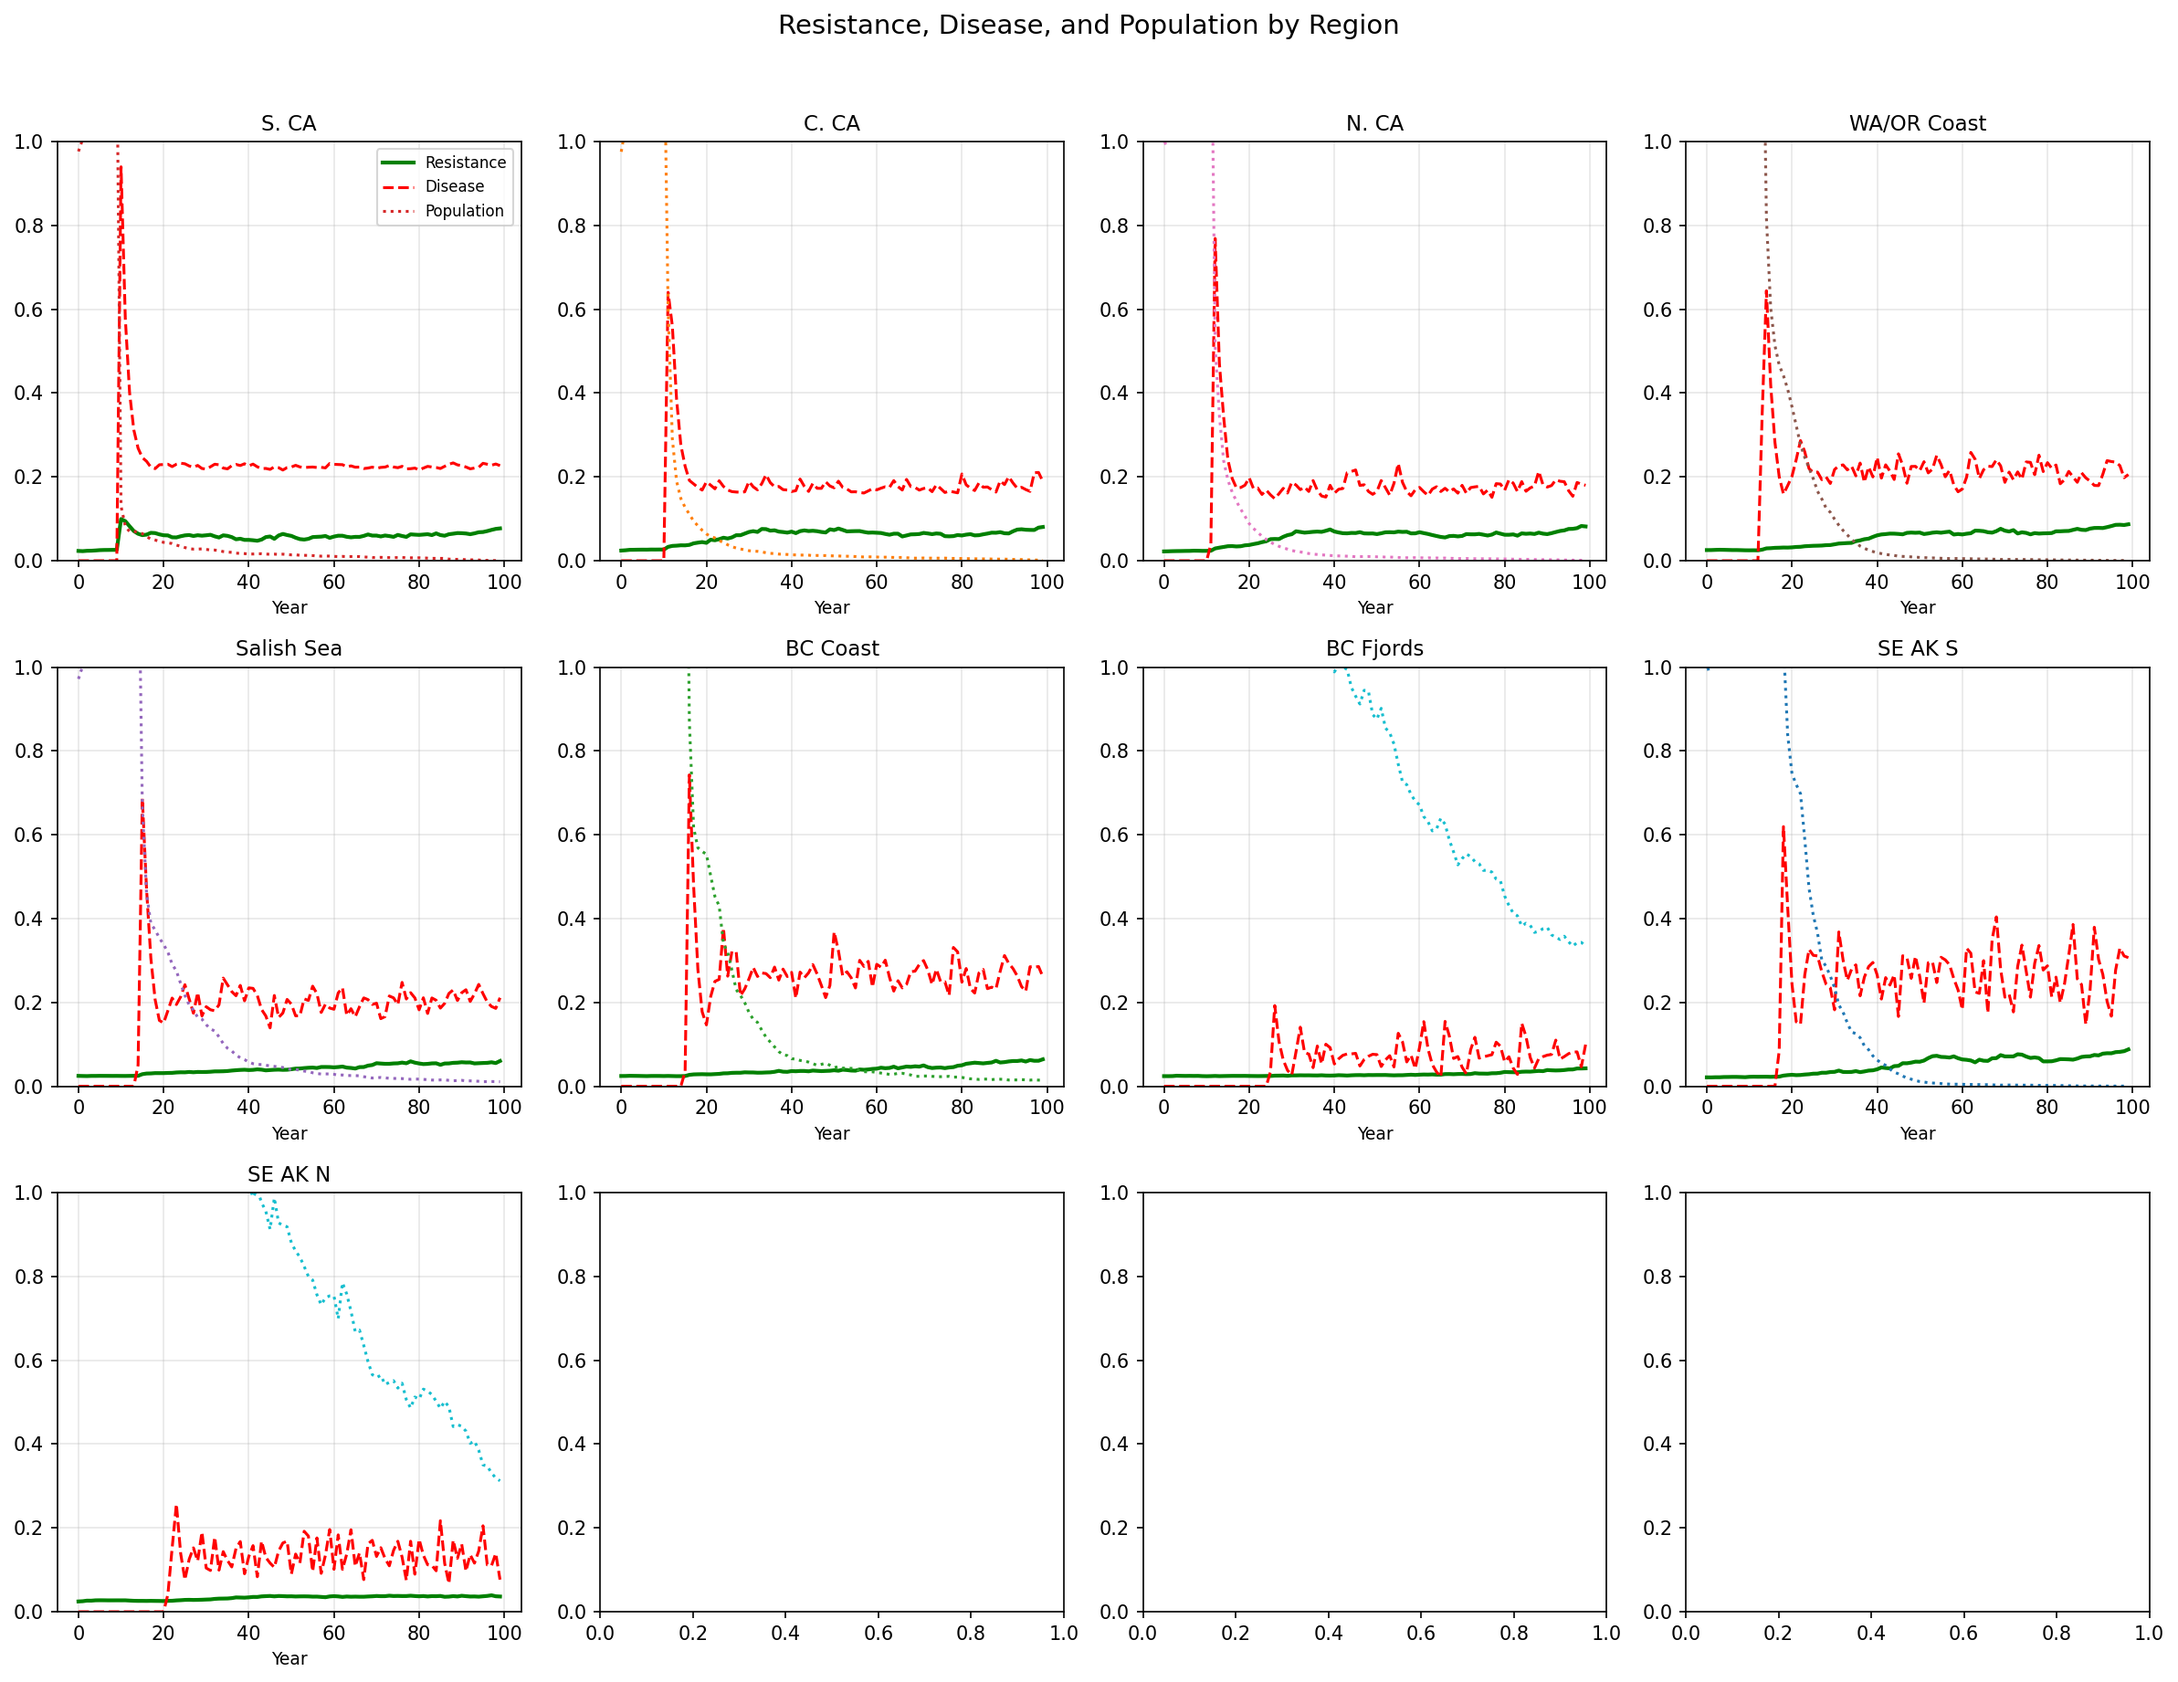
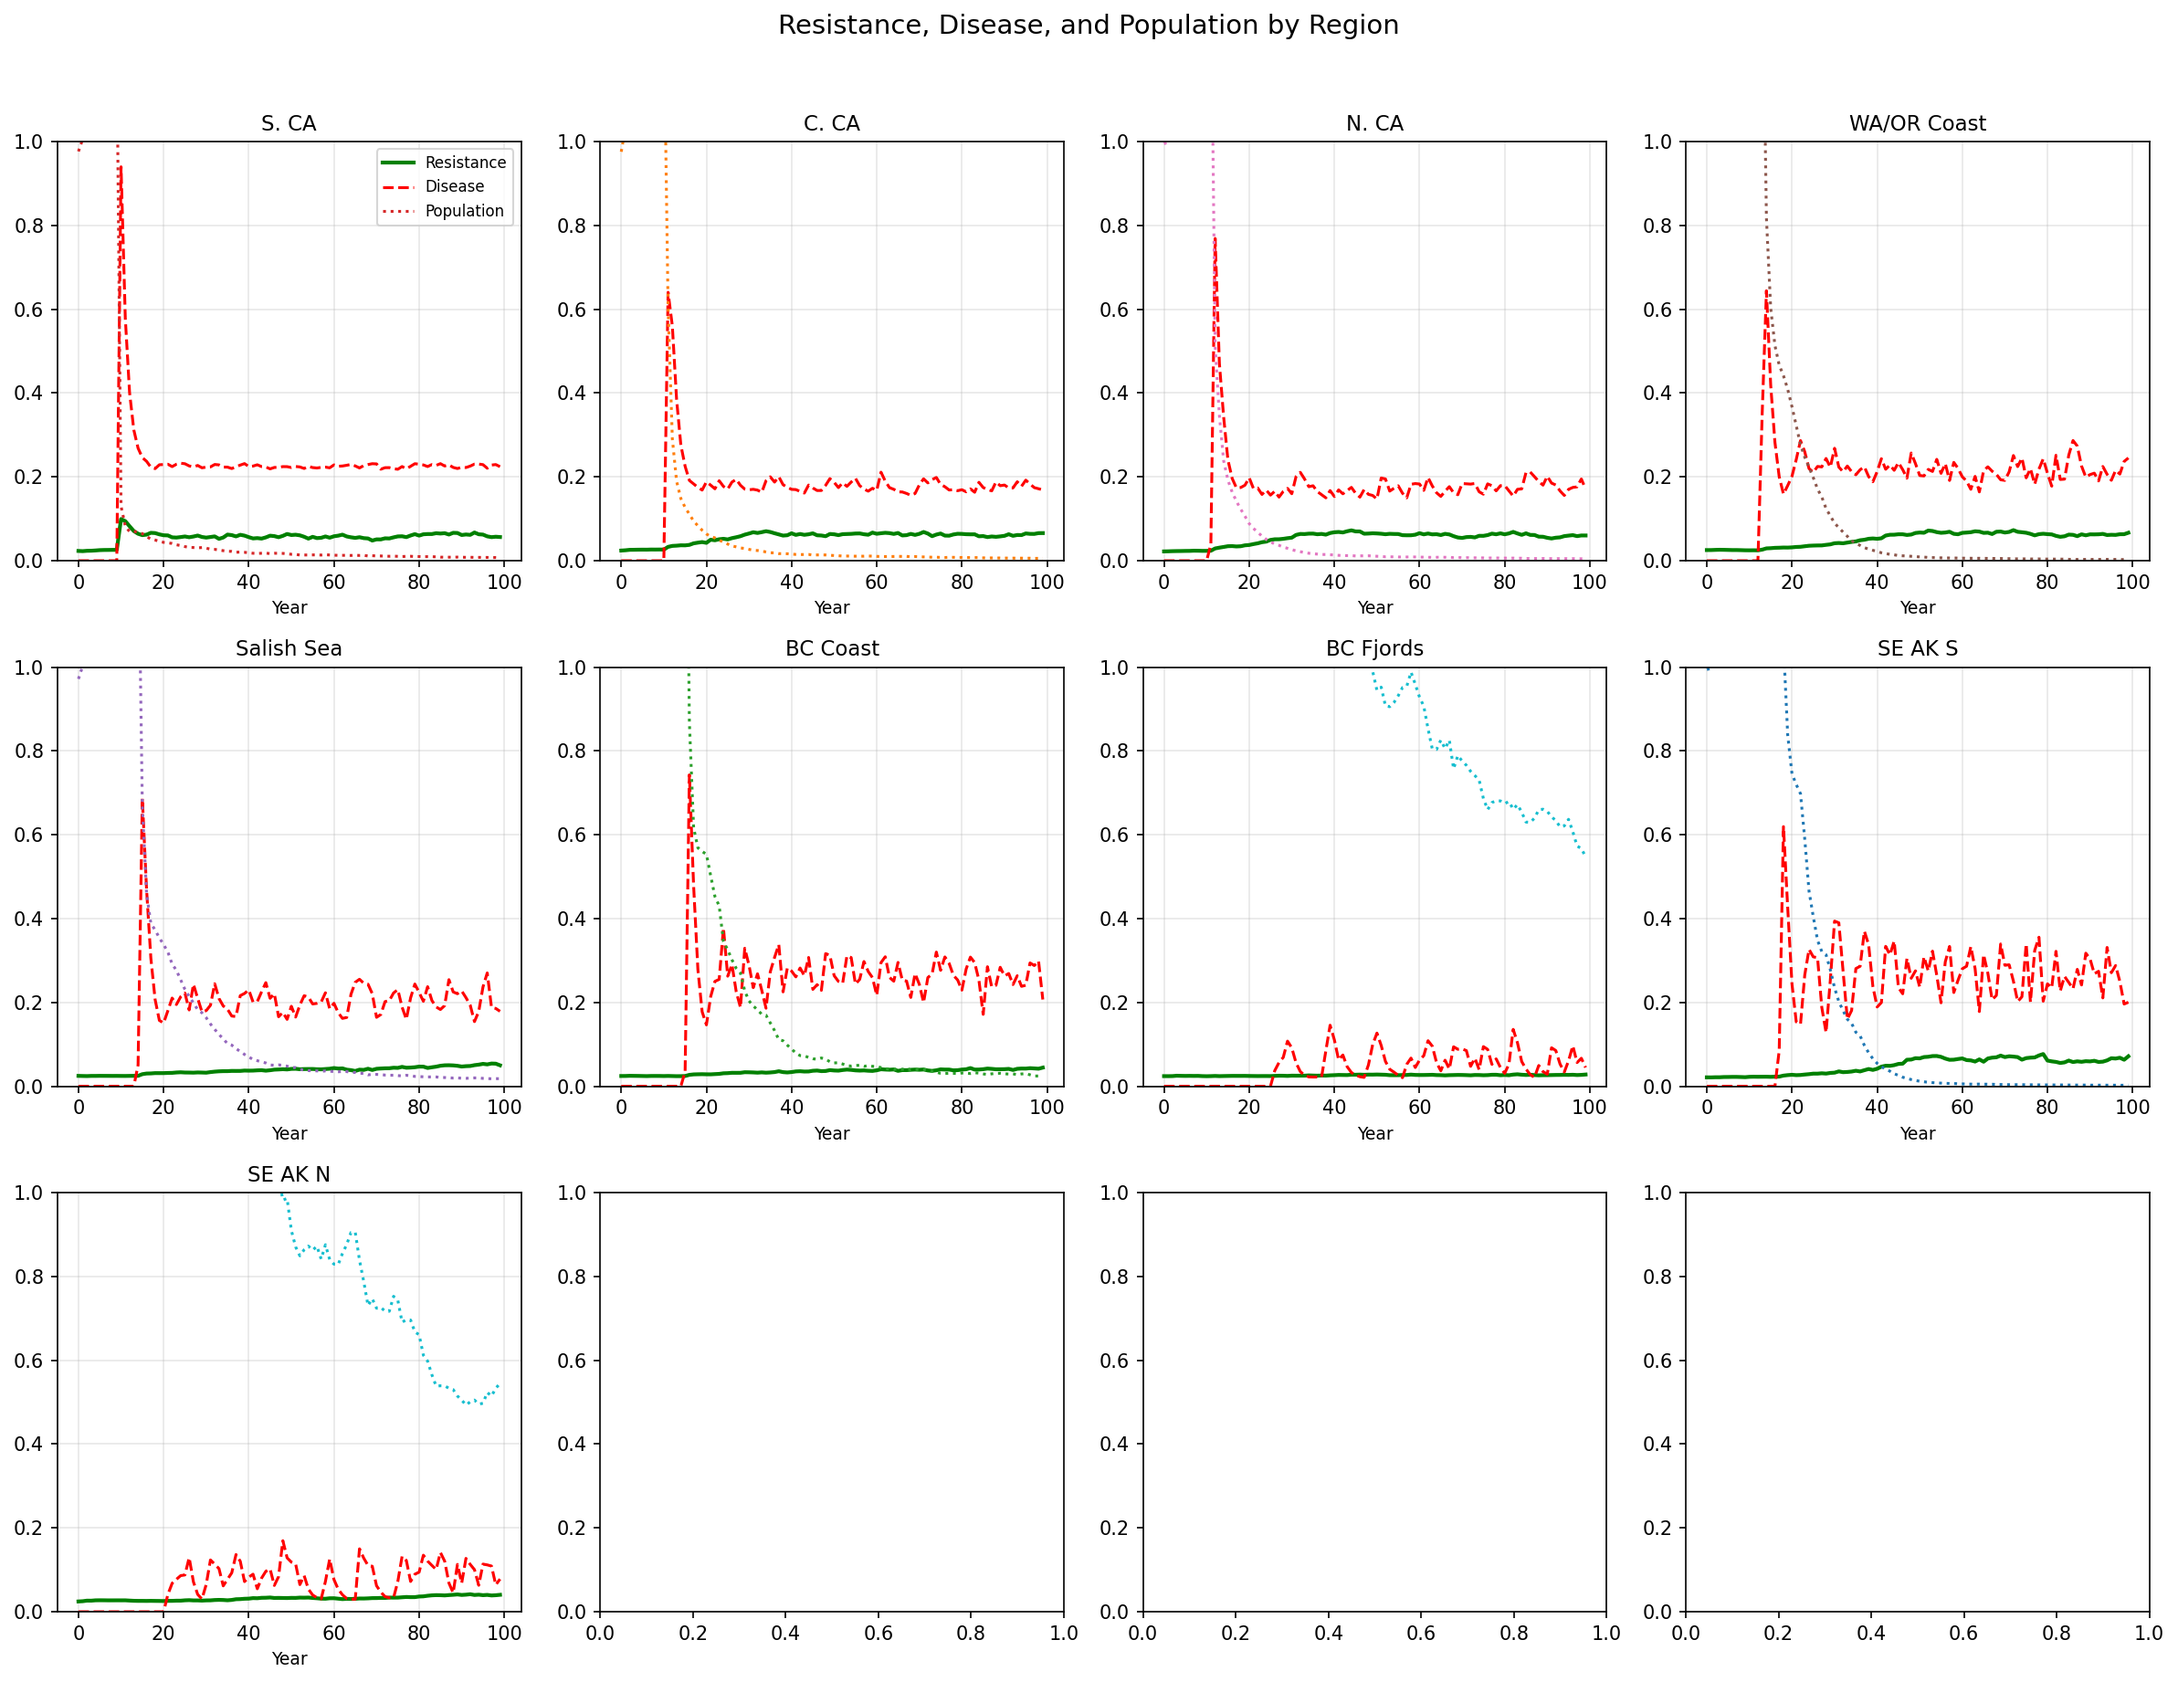
fix: rapid spread only on open coast, fjords stay isolated

diff --git a/pycnopodia/pacific_coast.py b/pycnopodia/pacific_coast.py
@@ -861,21 +861,22 @@ class PacificCoastSimulation:
                                 temp_mod
                             )
                     
-                    # Within-region rapid spread: if ANY site in same region
-                    # is already infected, disease spreads fast locally
-                    region_id = self.sites[i].region_id
-                    r_start, r_end = self.region_boundaries[region_id]
+                    # Within-region rapid spread on CONNECTED coast
+                    # Fjords are isolated — disease doesn't spread fast between fjord sites
+                    site_region = self.sites[i].region_id
+                    region_cfg = self.config.regions[site_region]
+                    r_start, r_end = self.region_boundaries[site_region]
                     region_infected = any(
                         self.disease_prevalence[j] > 0.1 
                         for j in range(r_start, r_end) if j != i
                     )
                     
-                    if region_infected:
-                        # Within-region spread is very fast (SSWD spread 
-                        # through entire regions in months, not years)
-                        infection_prob = 0.90  # Near-certain within 1 year
+                    if region_infected and region_cfg.region_type != RegionType.FJORD:
+                        # Open coast: disease spreads fast within region
+                        infection_prob = 0.90
                     else:
-                        # Between-region spread via connectivity matrix
+                        # Fjords or between-region: use connectivity matrix
+                        # Boost the base transmission for coastal adjacency
                         infection_prob = 1.0 - np.exp(-transmission_pressure * 15.0)
                     
                     if self.rng.random() < infection_prob:
